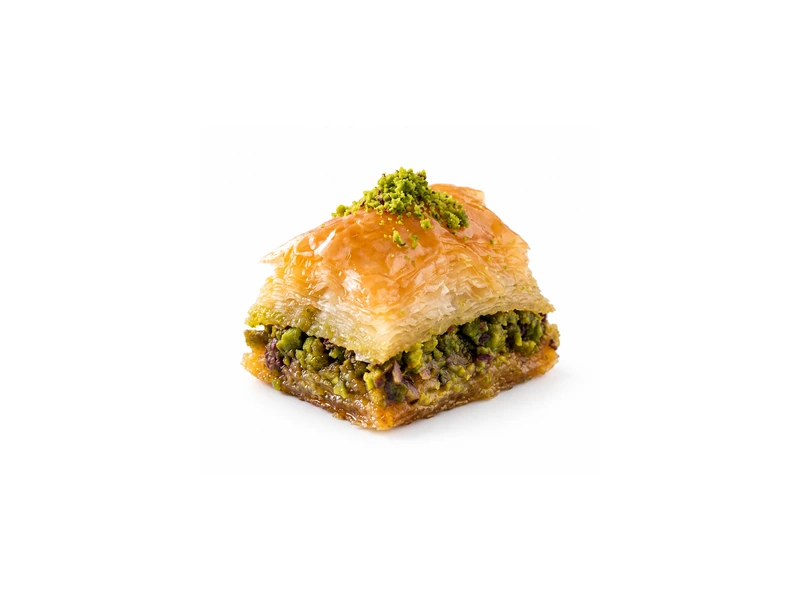
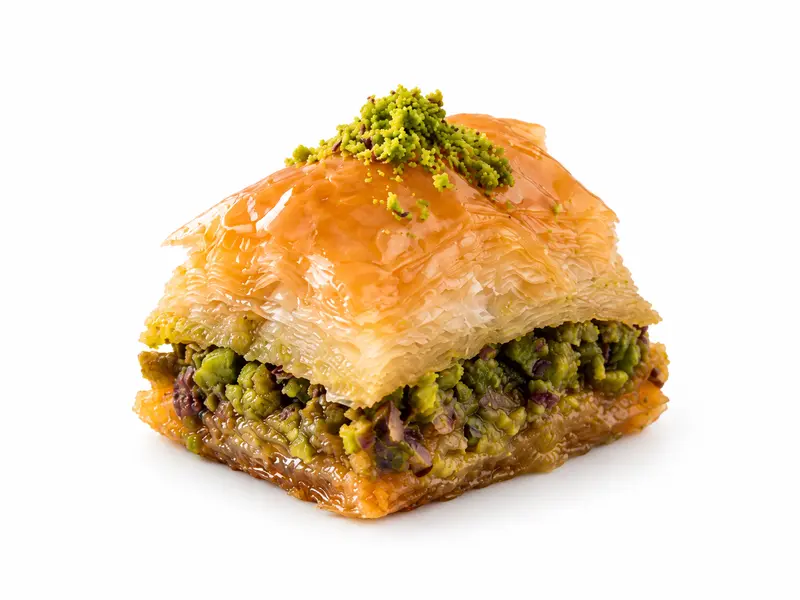
Match baklava studio images to Dilber Dudagi framing, background and shadow

diff --git a/docs/baklava-studio-images.md b/docs/baklava-studio-images.md
@@ -1,0 +1,9 @@
+# Baklava stüdyo görselleri
+
+Referans: `public/assets/images/urunler/baklavalar/studio/100.0106.06.png` (Fıstıklı Dilber Dudağı). Referans dosyası korunmuştur.
+
+Diğer 30 stüdyo fotoğrafı yerleşik ImageGen düzenleme aracı ile ayrı ayrı düzenlendi. Son dosyalar aynı klasörde 800×600 WebP olarak saklanır. Ürün bağlantıları `public/assets/data/products/baklavalar/products.json` üzerinden yönetilir. Kutu ve diğer galeri fotoğrafları bu düzenlemeye dahil değildir.
+
+Ortak düzenleme talimatı: İkinci görseldeki ürünü koru; ilk görseli yalnızca ölçek, fon ve gölge referansı olarak kullan. Ürünün formunu, oranlarını, dokusunu, kuruyemişlerini, katmanlarını, rengini ve kamera açısını koru. 4:3 kadrajda yatayda ortala; ürün yaklaşık %60 genişlik ve en fazla %72 yüksekliğe sığsın, tabanı yaklaşık %85 yüksekliğe gelsin. Referanstaki beyaz sonsuz fonu ve ürünün hemen altındaki yumuşak nötr gri temas gölgesini eşleştir. Metin, başka nesne veya kolaj ekleme.
+
+Çıktılar 800×600 boyutuna getirilip WebP olarak dışa aktarıldı. Katalogdaki 31 stüdyo referansının tamamının mevcut, okunabilir ve 800×600 olduğu doğrulandı; üretim derlemesi ve baklava akış testleri geçti.
